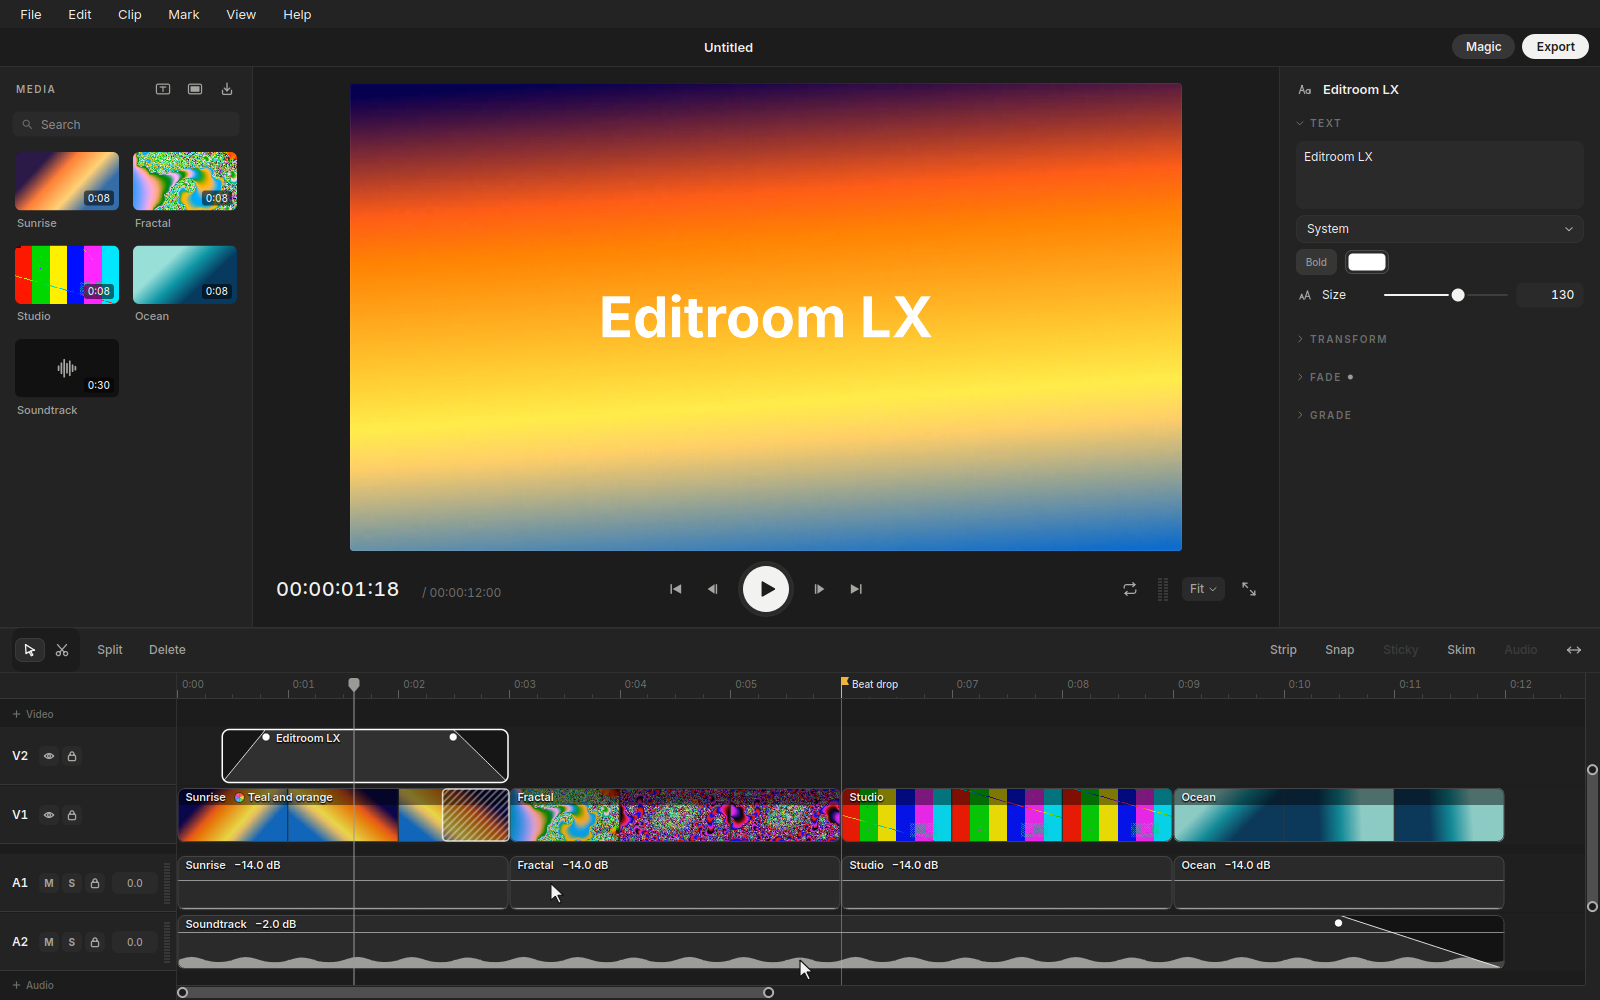
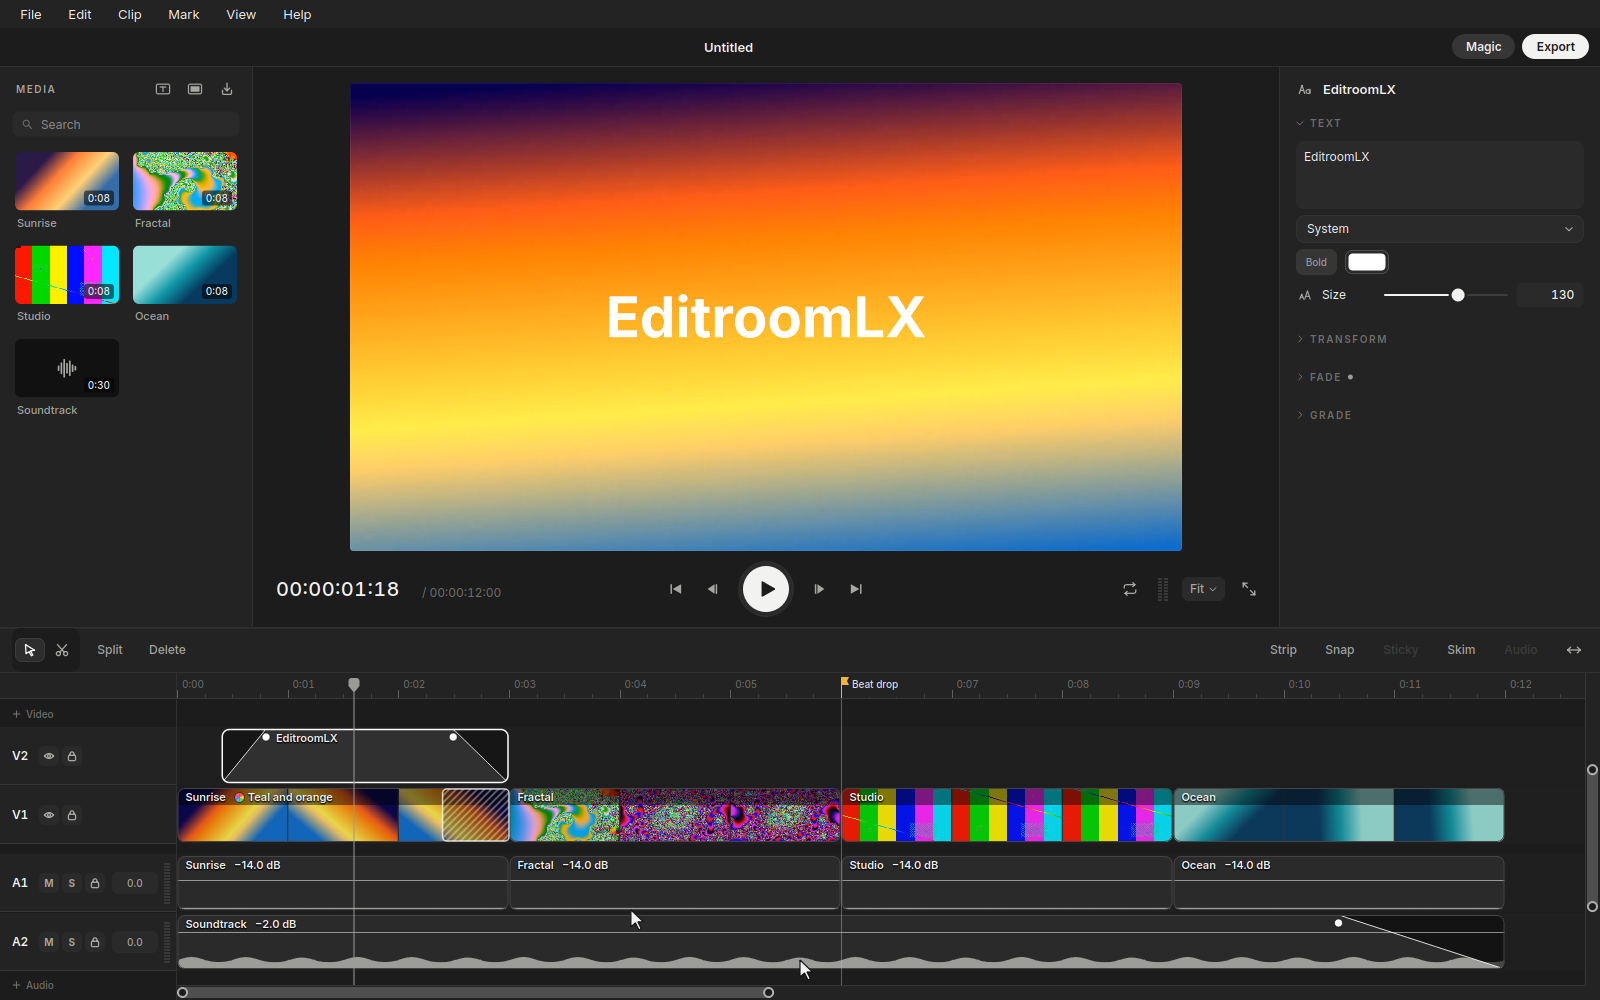
Editroom LX 1.0.10.2: EditroomLX in every user-facing string
Menus (Quit EditroomLX, About EditroomLX), About, alerts, Settings, update messages, file
dialogs, Local Magic's messages and what AI apps are told now say EditroomLX. The tool
instructions and Magic's brief are rebranded as they're loaded ("this Mac" read as "this
computer"), so the files stay as extracted from the Mac. Settings, cache and data folders,
the MCP server id and the User-Agent keep "Editroom", so nothing moves.

Changed region(s): [[0.375, 0.279, 0.5938, 0.341]]

diff --git a/src/ui/SettingsDialog.cpp b/src/ui/SettingsDialog.cpp
@@ -208,11 +208,11 @@ QString ownAgentPrompt() {
     const QString appImage = qEnvironmentVariable("APPIMAGE");
     const QString launcher = appImage.isEmpty() ? QCoreApplication::applicationFilePath() : appImage;
     const QString endpoint = SettingsDialog::server().endpoint ? SettingsDialog::server().endpoint() : QStringLiteral("http://127.0.0.1:47920/mcp");
-    return QStringLiteral("Connect to Editroom, the video editor on my computer, and edit only through its MCP tools (never screenshots or clicks). "
-                          "Its MCP server runs as the command \"%1\" with the argument --mcp (stdio; it opens Editroom when needed), "
-                          "or at %2 (Streamable HTTP) while Editroom is open. Add it to your MCP settings as \"editroom\" "
+    return QStringLiteral("Connect to EditroomLX, the video editor on my computer, and edit only through its MCP tools (never screenshots or clicks). "
+                          "Its MCP server runs as the command \"%1\" with the argument --mcp (stdio; it opens EditroomLX when needed), "
+                          "or at %2 (Streamable HTTP) while EditroomLX is open. Add it to your MCP settings as \"editroom\" "
                           "(or use the entry if it's already there). Until its tools appear in a new session, call the address directly. "
-                          "Then call get_project and list_media, and follow the instructions Editroom sends when you connect.")
+                          "Then call get_project and list_media, and follow the instructions EditroomLX sends when you connect.")
         .arg(launcher, endpoint);
 }
 
@@ -811,7 +811,7 @@ QWidget* SettingsDialog::magic() {
             });
             inner->addWidget(row);
         }
-        gv->addWidget(text(QStringLiteral("Connected apps use your own Claude or ChatGPT plan; no API key needed. Disconnecting stops Editroom answering that app, for Magic and for edits you ask for in the app."),
+        gv->addWidget(text(QStringLiteral("Connected apps use your own Claude or ChatGPT plan; no API key needed. Disconnecting stops EditroomLX answering that app, for Magic and for edits you ask for in the app."),
                            11, Theme::textFaint(), 400, true));
         v->addWidget(group);
     }
@@ -824,7 +824,7 @@ QWidget* SettingsDialog::magic() {
         QLabel* note;
         const bool on = server().enabled ? server().enabled() : s.value(QStringLiteral("agentsEnabled"), true).toBool();
         auto* sw = new Switch(on, {});
-        gv->addWidget(toggleRow(QStringLiteral("Let AI apps edit in Editroom"), &note, sw, true));
+        gv->addWidget(toggleRow(QStringLiteral("Let AI apps edit in EditroomLX"), &note, sw, true));
         QWidget* own = ownAgentRow();
         gv->addWidget(own);
         auto* problem = text(QString(), 11.5, QColor(0xE5, 0x73, 0x5C), 400, true);
@@ -836,8 +836,8 @@ QWidget* SettingsDialog::magic() {
             own->setEnabled(enabled);
             auto* fade = qobject_cast<QGraphicsOpacityEffect*>(own->graphicsEffect());
             if (fade) fade->setOpacity(enabled ? 1 : 0.4);
-            note->setText(enabled ? QStringLiteral("On: connected apps can edit here, with their own cursor, and every change can be undone. Only apps on this computer can reach Editroom.")
-                                  : QStringLiteral("Off: no app can reach Editroom, and Magic only makes quick cuts on this computer."));
+            note->setText(enabled ? QStringLiteral("On: connected apps can edit here, with their own cursor, and every change can be undone. Only apps on this computer can reach EditroomLX.")
+                                  : QStringLiteral("Off: no app can reach EditroomLX, and Magic only makes quick cuts on this computer."));
             const QString p = server().problem ? server().problem() : QString();
             problem->setText(p);
             problem->setVisible(enabled && !p.isEmpty());
@@ -925,7 +925,7 @@ QWidget* SettingsDialog::updates() {
         check->setEnabled(true);
         status->setText(!r.ok ? QStringLiteral("Couldn't check: %1").arg(r.error)
                         : r.none ? QStringLiteral("No releases on GitHub yet.")
-                        : r.newer ? QStringLiteral("Editroom %1 is available.").arg(r.version)
+                        : r.newer ? QStringLiteral("EditroomLX %1 is available.").arg(r.version)
                                   : QStringLiteral("You're up to date."));
         if (auto* l = lastRow->findChildren<QLabel*>().value(1)) l->setText(lastText());
     });

diff --git a/src/mcp/MCPTools.cpp b/src/mcp/MCPTools.cpp
@@ -121,11 +121,17 @@ void MCPDraft::redo() {
 // MARK: Definitions
 
 namespace {
+/// The Mac's words, with the app's Linux name: "Editroom" becomes "EditroomLX" (ids such as "editroom" stay).
+static QByteArray branded(QByteArray json) {
+    static const QRegularExpression word(QStringLiteral("(?<![\\w/-])Editroom(?![\\w/]| LX)"));
+    return QString::fromUtf8(json).replace(word, QStringLiteral("EditroomLX")).replace(QStringLiteral("this Mac"), QStringLiteral("this computer")).toUtf8();
+}
+
 QJsonObject loadDefinitions() {
     for (const QString& p : {QCoreApplication::applicationDirPath() + QStringLiteral("/../share/editroom/mcp-tools.json"),
                              QStringLiteral(ER_RESOURCES "/mcp-tools.json")}) {
         QFile f(p);
-        if (f.open(QIODevice::ReadOnly)) return QJsonDocument::fromJson(f.readAll()).object();
+        if (f.open(QIODevice::ReadOnly)) return QJsonDocument::fromJson(branded(f.readAll())).object();
     }
     return {};
 }
@@ -543,7 +549,7 @@ QString download(Controller& c, const QUrl& url, const QString& name, const QStr
     auto probe = Probe::file(dest);
     if (!probe || !probe->hasAudio || probe->duration < 1) {
         QFile::remove(dest);
-        throw MCPToolError{QStringLiteral("That file isn't audio Editroom can play. Find the direct link to an .mp3 or .wav.")};
+        throw MCPToolError{QStringLiteral("That file isn't audio EditroomLX can play. Find the direct link to an .mp3 or .wav.")};
     }
     QFile note(folder + QStringLiteral("/Sources.txt"));
     if (note.open(QIODevice::Append)) {
@@ -713,7 +719,7 @@ QJsonArray MCPTools::call(const QString& name, const QJsonObject& args, Controll
             return jsonOut(QJsonObject{{"asset_id", uuid(a.id)}, {"status", "no_sound"}, {"note", QStringLiteral("%1 has no sound.").arg(a.name)}});
         if (!Transcripts::available())
             return jsonOut(QJsonObject{{"asset_id", uuid(a.id)}, {"status", "unavailable"},
-                                       {"note", "Hearing speech needs Editroom's speech model, which the person can download in Settings › General › Speech."}});
+                                       {"note", "Hearing speech needs EditroomLX's speech model, which the person can download in Settings › General › Speech."}});
         auto t = waitTranscript(ctl, path);
         if (!t) return jsonOut(QJsonObject{{"asset_id", uuid(a.id)}, {"status", "failed"}, {"note", QStringLiteral("Couldn't hear what's said in %1.").arg(a.name)}});
         return jsonOut(transcriptJSON(*t, a, args.value("words").toBool(false)));
@@ -887,7 +893,7 @@ QJsonArray MCPTools::call(const QString& name, const QJsonObject& args, Controll
             return jsonOut(QJsonObject{{"captions", captionsJSON(draft ? draft->project : m.project(), ctl)}});
         }
         if (!Transcripts::available())
-            throw MCPToolError{QStringLiteral("Captions need Editroom's speech model, which the person can download in Settings › General › Speech.")};
+            throw MCPToolError{QStringLiteral("Captions need EditroomLX's speech model, which the person can download in Settings › General › Speech.")};
         const IdSet targets = p.unlocked(given.empty() ? (p.captions ? IdSet() : p.defaultCaptionTargets()) : p.captionTargets(given));
         if (!given.empty() && targets.empty()) throw MCPToolError{QStringLiteral("Those clips have no sound to caption.")};
         if (!p.captions && targets.empty()) throw MCPToolError{QStringLiteral("There's no one talking to caption: give clip_ids of clips with speech.")};

diff --git a/src/ui/Updates.cpp b/src/ui/Updates.cpp
@@ -100,23 +100,23 @@ namespace {
 void tell(QWidget* parent, const Updates::Result& r, bool quiet) {
     const QString installed = QCoreApplication::applicationVersion();
     if (!r.ok) {
-        if (!quiet) Alert::run(parent, QStringLiteral("Update Error!"), QStringLiteral("Editroom couldn't check for updates: %1").arg(r.error), {QStringLiteral("OK")});
+        if (!quiet) Alert::run(parent, QStringLiteral("Update Error!"), QStringLiteral("EditroomLX couldn't check for updates: %1").arg(r.error), {QStringLiteral("OK")});
         return;
     }
     if (r.none) {
         if (!quiet) Alert::run(parent, QStringLiteral("No releases yet"),
-                               QStringLiteral("There's no Editroom LX release on GitHub to update to yet. You have %1.").arg(installed), {QStringLiteral("OK")});
+                               QStringLiteral("There's no EditroomLX release on GitHub to update to yet. You have %1.").arg(installed), {QStringLiteral("OK")});
         return;
     }
     if (!r.newer) {
-        if (!quiet) Alert::run(parent, QStringLiteral("You're up to date!"), QStringLiteral("Editroom %1 is currently the newest version available.").arg(installed), {QStringLiteral("OK")});
+        if (!quiet) Alert::run(parent, QStringLiteral("You're up to date!"), QStringLiteral("EditroomLX %1 is currently the newest version available.").arg(installed), {QStringLiteral("OK")});
         return;
     }
     QString notes = r.notes.trimmed();
     if (notes.size() > 600) notes = notes.left(600).trimmed() + QStringLiteral("…");
-    const QString text = QStringLiteral("Editroom %1 is now available—you have %2. Would you like to download it now?").arg(r.version, installed)
+    const QString text = QStringLiteral("EditroomLX %1 is now available—you have %2. Would you like to download it now?").arg(r.version, installed)
                        + (notes.isEmpty() ? QString() : QStringLiteral("\n\n") + notes);
-    if (Alert::run(parent, QStringLiteral("A new version of Editroom is available!"), text, {QStringLiteral("View Release"), QStringLiteral("Remind Me Later")}) == 0)
+    if (Alert::run(parent, QStringLiteral("A new version of EditroomLX is available!"), text, {QStringLiteral("View Release"), QStringLiteral("Remind Me Later")}) == 0)
         QDesktopServices::openUrl(QUrl(r.url));
 }
 } // namespace

diff --git a/src/ui/MainWindow.cpp b/src/ui/MainWindow.cpp
@@ -170,7 +170,7 @@ void MainWindow::rebuildMenus() {
     item(file, QStringLiteral("Import Media…"), [this] { c_.showImportPanel(); }, ShortcutAction::importMedia);
     item(file, QStringLiteral("Export…"), [this] { showExport(); }, ShortcutAction::export_);
     file->addSeparator();
-    QAction* quit = file->addAction(QStringLiteral("Quit Editroom"), this, &QWidget::close);
+    QAction* quit = file->addAction(QStringLiteral("Quit EditroomLX"), this, &QWidget::close);
     quit->setShortcut(QKeySequence(QStringLiteral("Ctrl+Q")));
     // Edit
     QMenu* edit = menuBar()->addMenu(QStringLiteral("Edit"));
@@ -263,7 +263,7 @@ void MainWindow::rebuildMenus() {
     fs->setShortcut(QKeySequence(QStringLiteral("F11")));
     // Help (the Mac's app menu items: About Editroom, Check for Updates…)
     QMenu* help = menuBar()->addMenu(QStringLiteral("Help"));
-    help->addAction(QStringLiteral("About Editroom"), this, &MainWindow::showAbout);
+    help->addAction(QStringLiteral("About EditroomLX"), this, &MainWindow::showAbout);
     help->addAction(QStringLiteral("Check for Updates…"), this, [this] {
         Updates::shared().checkAndTell(this);
     });
@@ -289,7 +289,7 @@ void MainWindow::showSettings() {
 void MainWindow::showAbout() {
     // The standard About panel: the icon, the name, the version, and one quiet line of credits under it.
     QDialog d(this);
-    d.setWindowTitle(QStringLiteral("About Editroom"));
+    d.setWindowTitle(QStringLiteral("About EditroomLX"));
     d.setFixedWidth(300);
     auto* v = new QVBoxLayout(&d);
     v->setContentsMargins(20, 24, 20, 20);
@@ -303,7 +303,7 @@ void MainWindow::showAbout() {
     name->setFont(Theme::font(14, 700));
     name->setAlignment(Qt::AlignCenter);
     v->addWidget(name);
-    auto* version = new QLabel(QStringLiteral("Version %1 (LX)").arg(QCoreApplication::applicationVersion()));
+    auto* version = new QLabel(QStringLiteral("Version %1").arg(QCoreApplication::applicationVersion()));
     version->setFont(Theme::font(11));
     version->setAlignment(Qt::AlignCenter);
     v->addWidget(version);

diff --git a/src/mcp/MCPServer.cpp b/src/mcp/MCPServer.cpp
@@ -30,7 +30,7 @@ std::optional<QJsonObject> MCPHandler::handshake(const QJsonObject& req) {
         const QString asked = params.value("protocolVersion").toString(kVersions[0]);
         return ok(QJsonObject{{"protocolVersion", kVersions.contains(asked) ? asked : kVersions[0]},
                               {"capabilities", QJsonObject{{"tools", QJsonObject{{"listChanged", false}}}}},
-                              {"serverInfo", QJsonObject{{"name", "editroom"}, {"title", "Editroom"}, {"version", "1.0"}}},
+                              {"serverInfo", QJsonObject{{"name", "editroom"}, {"title", "EditroomLX"}, {"version", "1.0"}}},
                               {"instructions", MCPTools::instructions()}});
     }
     if (method == QLatin1String("ping")) return ok(QJsonObject{});
@@ -59,7 +59,7 @@ bool MCPServer::start() {
     // This computer only: never reachable from the network.
     if (server_.listen(QHostAddress::LocalHost, port)) { problem_.clear(); return true; }
     if (server_.listen(QHostAddress::LocalHost, 0)) {
-        problem_ = QStringLiteral("Another copy of Editroom is answering AI apps; this one only runs its own Magic.");
+        problem_ = QStringLiteral("Another copy of EditroomLX is answering AI apps; this one only runs its own Magic.");
         return true;
     }
     problem_ = QStringLiteral("Couldn't listen on port %1: %2").arg(port).arg(server_.errorString());
@@ -245,7 +245,7 @@ int runMCPBridge(int argc, char** argv) {
         }
         if (!answered && hasId)
             reply = json::write(MCPHandler::error(json.value("id"), -32000,
-                QStringLiteral("Editroom isn't answering. Open Editroom and turn on AI Agents (Edit menu > Settings… > Magic).")), false);
+                QStringLiteral("EditroomLX isn't answering. Open EditroomLX and turn on AI Agents (Edit menu > Settings… > Magic).")), false);
         if (!reply.isEmpty() && hasId) writeLine(reply);
     }
     return 0;

diff --git a/src/app/main.cpp b/src/app/main.cpp
@@ -179,7 +179,7 @@ int main(int argc, char** argv) {
         QCoreApplication::setApplicationVersion(QStringLiteral(EDITROOM_VERSION));
         const QStringList args = app.arguments();
         if (args.contains(QStringLiteral("--version"))) {
-            log(QStringLiteral("Editroom LX %1 (Mac baseline %2)").arg(EDITROOM_VERSION, EDITROOM_MAC_BASELINE));
+            log(QStringLiteral("EditroomLX %1 (Mac baseline %2)").arg(EDITROOM_VERSION, EDITROOM_MAC_BASELINE));
             return 0;
         }
         if (args.contains(QStringLiteral("--dump-schema"))) return dumpSchema();
@@ -229,10 +229,10 @@ int main(int argc, char** argv) {
     er::SettingsDialog::agentApps() = {
         {QStringLiteral("Claude Code"), [] { return !er::MagicAgent::cli(er::MagicAgent::Kind::claude).isEmpty(); },
          [] { return er::AgentConnect::claudeCodeConnected(); }, er::AgentConnect::connectClaudeCode, er::AgentConnect::disconnectClaudeCode,
-         QStringLiteral("Adds Editroom to Claude Code for all your projects."), QStringLiteral("Connected. New Claude Code sessions can edit here.")},
+         QStringLiteral("Adds EditroomLX to Claude Code for all your projects."), QStringLiteral("Connected. New Claude Code sessions can edit here.")},
         {QStringLiteral("ChatGPT (Codex)"), [] { return !er::MagicAgent::cli(er::MagicAgent::Kind::chatgpt).isEmpty(); },
          [] { return er::AgentConnect::codexConnected(); }, er::AgentConnect::connectCodex, er::AgentConnect::disconnectCodex,
-         QStringLiteral("Adds Editroom to Codex."), QStringLiteral("Connected. ChatGPT can edit here, and Magic can use it.")},
+         QStringLiteral("Adds EditroomLX to Codex."), QStringLiteral("Connected. ChatGPT can edit here, and Magic can use it.")},
     };
     er::SettingsDialog::server() = {
         [&mcp] { return mcp.enabled(); },

diff --git a/src/mcp/MagicAgent.cpp b/src/mcp/MagicAgent.cpp
@@ -1,4 +1,5 @@
 #include "MagicAgent.h"
+#include <QRegularExpression>
 #include <QPointer>
 #include <QTimer>
 #include "MagicPlan.h"
@@ -77,11 +78,17 @@ void MagicAgent::setModel(Kind k, const QString& id, const QString& effort) {
     s.setValue(QStringLiteral("magicEffort.") + rawValue(k), effort);
 }
 
+/// The Mac's words, with the app's Linux name: "Editroom" becomes "EditroomLX" (ids such as "editroom" stay).
+static QByteArray branded(QByteArray json) {
+    static const QRegularExpression word(QStringLiteral("(?<![\\w/-])Editroom(?![\\w/]| LX)"));
+    return QString::fromUtf8(json).replace(word, QStringLiteral("EditroomLX")).replace(QStringLiteral("this Mac"), QStringLiteral("this computer")).toUtf8();
+}
+
 static QJsonObject briefText() {
     for (const QString& p : {QCoreApplication::applicationDirPath() + QStringLiteral("/../share/editroom/magic-brief.json"),
                              QStringLiteral(ER_RESOURCES "/magic-brief.json")}) {
         QFile f(p);
-        if (f.open(QIODevice::ReadOnly)) return QJsonDocument::fromJson(f.readAll()).object();
+        if (f.open(QIODevice::ReadOnly)) return QJsonDocument::fromJson(branded(f.readAll())).object();
     }
     return {};
 }
@@ -241,7 +248,7 @@ void MagicAgent::start(const QString& request, Kind k) {
     }
     // Magic needs Editroom's connection even when other apps aren't allowed in.
     if (!server_.running() && !server_.start()) {
-        emit finished(QString(), false, QStringLiteral("Editroom couldn't open its connection for %1.").arg(name(k)));
+        emit finished(QString(), false, QStringLiteral("EditroomLX couldn't open its connection for %1.").arg(name(k)));
         return;
     }
     // Nothing plays while the AI works out the edit.

diff --git a/src/ui/Controller.cpp b/src/ui/Controller.cpp
@@ -133,7 +133,7 @@ bool Controller::showScrubFrame(double t) { return engine_->showScrubFrame(t); }
 bool Controller::offerSpeechModel() {
     if (transcripts_.downloading()) return true;
     if (alert(QStringLiteral("Download the speech model?"),
-              QStringLiteral("Captions, transcripts and searching what's said need Editroom's speech model. It's about 150 MB, downloaded once, "
+              QStringLiteral("Captions, transcripts and searching what's said need EditroomLX's speech model. It's about 150 MB, downloaded once, "
                              "and runs on this computer: nothing you edit is sent anywhere."),
               {QStringLiteral("Download"), QStringLiteral("Not Now")}) != 0) return false;
     downloadSpeechModel();
@@ -255,11 +255,11 @@ void Controller::showError(const QString& message) { Alert::run(window_, message
 
 QString Controller::chooseSaveFile(const QString& suggested) {
     const QString dir = QStandardPaths::writableLocation(QStandardPaths::MoviesLocation);
-    return QFileDialog::getSaveFileName(window_, QString(), dir + u'/' + suggested, QStringLiteral("Editroom project (*.room)"));
+    return QFileDialog::getSaveFileName(window_, QString(), dir + u'/' + suggested, QStringLiteral("EditroomLX project (*.room)"));
 }
 
 QString Controller::chooseProjectFile() {
-    return QFileDialog::getOpenFileName(window_, QString(), QString(), QStringLiteral("Editroom project (*.room *.cutplay)"));
+    return QFileDialog::getOpenFileName(window_, QString(), QString(), QStringLiteral("EditroomLX project (*.room *.cutplay)"));
 }
 
 void Controller::showImportPanel() {

diff --git a/src/mcp/LocalPlanners.cpp b/src/mcp/LocalPlanners.cpp
@@ -630,7 +630,7 @@ LocalOutcome plan(const Project& p, const std::optional<IdSet>& only, const Tran
         if (s1 - at >= shortest) cuts.push_back({c.start + (at - s0), c.start + (s1 - s0)});
     }
     if (talking == 0)
-        return said(unheard > 0 ? QStringLiteral("Editroom is still listening to your clips. Try again in a moment.")
+        return said(unheard > 0 ? QStringLiteral("EditroomLX is still listening to your clips. Try again in a moment.")
                                 : QStringLiteral("Nobody talks in %1, so there were no pauses to cut.").arg(only ? QStringLiteral("those clips") : QStringLiteral("the edit")));
     if (cuts.empty()) return said(QStringLiteral("The talking is already tight: no pauses long enough to cut."));
     double total = 0;

diff --git a/tests/unit/tst_mcp.cpp b/tests/unit/tst_mcp.cpp
@@ -107,7 +107,7 @@ private slots:
         QCOMPARE(c->model().undoDepth(), undo + 1);
         // The brief: the Mac's words, for this computer.
         const QString brief = MagicAgent::brief(QStringLiteral("make it fast"), c->model().project());
-        QVERIFY(brief.startsWith(QStringLiteral("You're the editor in Editroom, the video editor open on this computer.")));
+        QVERIFY(brief.startsWith(QStringLiteral("You're the editor in EditroomLX, the video editor open on this computer.")));
         QVERIFY(brief.contains(QStringLiteral("What they asked for: \"make it fast\"")));
     }
 

diff --git a/src/model/Codec.cpp b/src/model/Codec.cpp
@@ -574,7 +574,7 @@ Result decodeDocument(const QByteArray& bytes) {
     QJsonParseError pe;
     const QJsonDocument doc = QJsonDocument::fromJson(bytes, &pe);
     if (pe.error != QJsonParseError::NoError) { res.error = pe.errorString(); return res; }
-    if (!doc.isObject()) { res.error = QStringLiteral("The file isn't an Editroom project."); return res; }
+    if (!doc.isObject()) { res.error = QStringLiteral("The file isn't an EditroomLX project."); return res; }
     try {
         Reader r(doc.object(), QString());
         SavedDocument d;

diff --git a/tests/docs/tst_readme.cpp b/tests/docs/tst_readme.cpp
@@ -79,7 +79,7 @@ private slots:
                 ++k;
             }
             Clip text(v2, ClipKind::text, 0.4, 2.6);
-            text.text.string = QStringLiteral("Editroom LX");
+            text.text.string = QStringLiteral("EditroomLX");
             text.text.size = 130;
             text.fadeIn = 0.4;
             text.fadeOut = 0.5;
